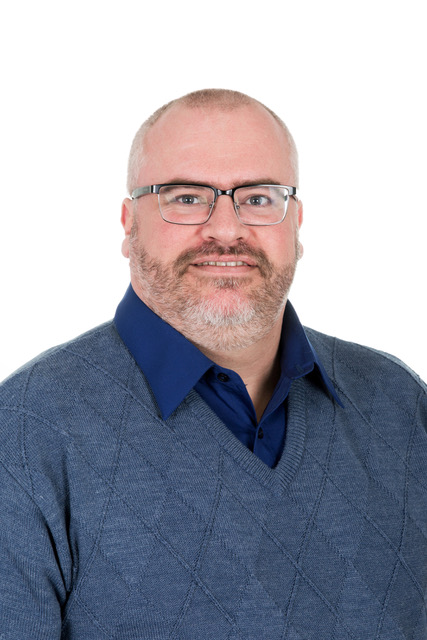
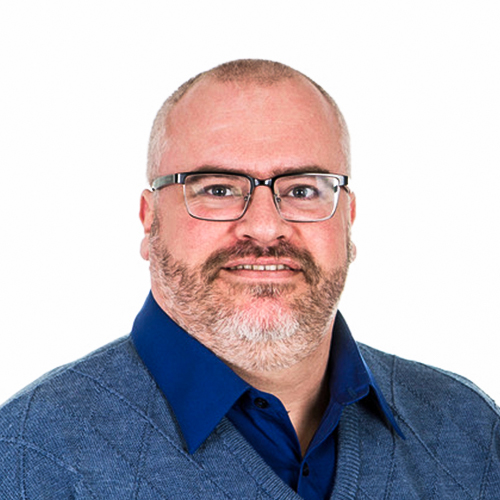
added new images

diff --git a/css/style.css b/css/style.css
@@ -4,6 +4,13 @@
 
 /* for the commit */
 /* Global styles */
+
+/* 
+.modal .modal-content {
+    padding: 10px;
+} */
+
+
 #boardMore{
     display: none;
 }
@@ -91,7 +98,7 @@ textarea,
     display: none;
 }
 
-.modal ::-webkit-scrollbar {
+::-webkit-scrollbar {
     display: none;
 }
 
@@ -105,8 +112,8 @@ textarea,
 }
 
 .modal {
-    width: 90% !important;
-    height: 100% !important;
+    width: 100% !important;
+    height:100% !important;
     position: absolute;
     top: 0% !important;
     max-height: 95%;
@@ -189,9 +196,6 @@ heading {
     color: #109DD5 !important;
 }
 
-.believe-list p {
-    /* width: 90%; */
-}
 
 .believe-list {
     list-style: none;
@@ -342,11 +346,6 @@ nav {
     height: 90px;
 }
 
-nav ul li {
-    /* font-weight: bolder; */
-    /* position: relative; */
-    /* top: 85px */
-}
 
 nav ul a {
     color: #757575;
@@ -394,8 +393,8 @@ hr.custom {
 }
 
 .circle-image {
-    height: 295px;
-    width: 300px;
+    height: 70%;
+    width: 70%;
     border-radius: 50%;
     -webkit-box-shadow: 0 8px 17px 0 rgba(0, 0, 0, 0.2), 0 6px 20px 0 rgba(0, 0, 0, 0.19);
     box-shadow: 0 8px 17px 0 rgba(0, 0, 0, 0.2), 0 6px 20px 0 rgba(0, 0, 0, 0.19);
@@ -440,7 +439,7 @@ hr.custom {
 
 
 .card-image img {
-    height: 180px;
+    /* height: 1px; */
     border-radius: 50%;
 }
 
@@ -482,6 +481,8 @@ hr.custom {
 
 /* Media queries*/
 @media only screen and (max-width: 600px) {
+ 
+
     #footer .btn-small {
         float: left;
     }
@@ -493,15 +494,6 @@ hr.custom {
     .modal p {
         text-align: center;
     }
-
-
-    .modal {
-        width: 100% !important;
-        height: 100% !important;
-        max-height: 95%;
-    }
-
-
 
     #funding img {
         width: 85%;
@@ -573,13 +565,17 @@ hr.custom {
     }
 
     .circle-image {
-        height: 270px;
-        width: 270px;
+        /* height: 270px; */
+        /* width: 270px; */
         border-radius: 50%;
     }
 }
 
 @media screen and (max-width: 900px) and (min-width: 605px) {
+    .modal {
+        width: 100% !important;
+        height: 100% !important;
+    }
     /* .sidenav li>a:hover {
         color: #109DD5;
     } */
@@ -633,6 +629,10 @@ hr.custom {
 }
 
 @media screen and (max-width: 1920px) and (min-width: 1500px) {
+    .modal {
+        width: 100% !important;
+        height: 70% !important;
+    }
     #top-slider {
         height: 800px !important;
     }

diff --git a/index.html b/index.html
@@ -288,7 +288,7 @@
                 <div class="col s12 m6 l6 center" style="position:relative">
                     <a href="#modal3" class="modal-trigger tooltipped" data-position="top"
                         data-tooltip="Click to read more"> <img class="circle-image hoverable"
-                            src="./images/Sisa.jpeg"></a>
+                            src="./images/sisa.jpg"></a>
                     <br>
                     <b>Sisa Ngondo</b>
                     <p>Board Member</p>
